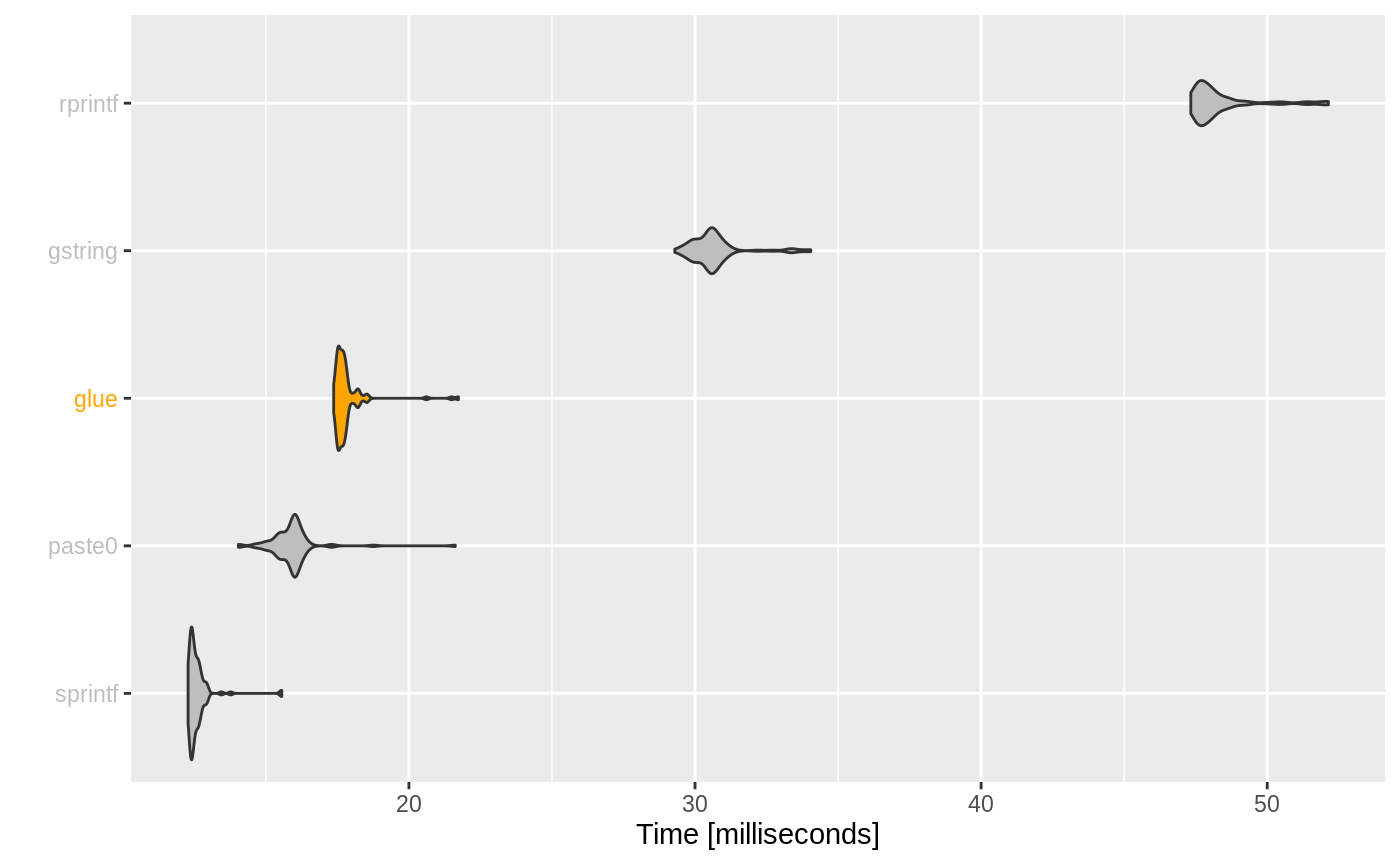
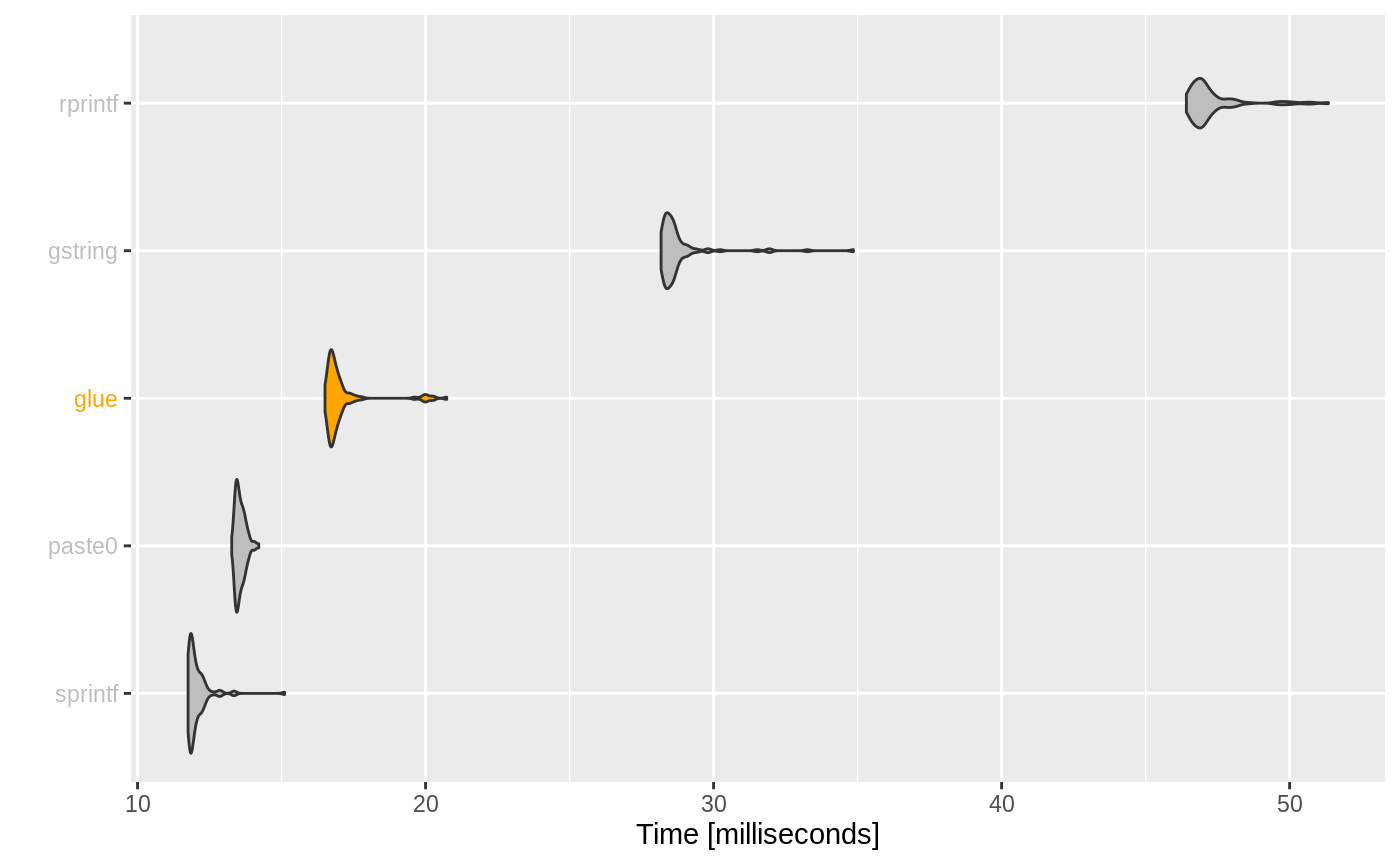
Built site for glue: 1.3.1.9000@8094d3b

diff --git a/dev/articles/speed.html b/dev/articles/speed.html
@@ -153,13 +153,13 @@
 <a class="sourceLine" id="cb1-12" data-line-number="12"></a>
 <a class="sourceLine" id="cb1-13" data-line-number="13"><span class="kw"><a href="https://rdrr.io/r/base/print.html">print</a></span>(<span class="dt">unit =</span> <span class="st">"eps"</span>, <span class="dt">order =</span> <span class="st">"median"</span>, <span class="dt">signif =</span> <span class="dv">4</span>, simple)</a>
 <a class="sourceLine" id="cb1-14" data-line-number="14"><span class="co">#&gt; Unit: evaluations per second</span></a>
-<a class="sourceLine" id="cb1-15" data-line-number="15"><span class="co">#&gt;        expr      min     lq   mean median     uq     max neval</span></a>
-<a class="sourceLine" id="cb1-16" data-line-number="16"><span class="co">#&gt;     rprintf   305.60   2061   2145   2150   2289    2563   100</span></a>
-<a class="sourceLine" id="cb1-17" data-line-number="17"><span class="co">#&gt;     gstring    22.71   2523   2601   2631   2748    3209   100</span></a>
-<a class="sourceLine" id="cb1-18" data-line-number="18"><span class="co">#&gt;  str_interp   226.00   3388   3634   3585   3942    4902   100</span></a>
-<a class="sourceLine" id="cb1-19" data-line-number="19"><span class="co">#&gt;        glue  1135.00   6369   7405   7279   8245   11200   100</span></a>
-<a class="sourceLine" id="cb1-20" data-line-number="20"><span class="co">#&gt;      paste0 27570.00 336300 526000 534200 653200  986200   100</span></a>
-<a class="sourceLine" id="cb1-21" data-line-number="21"><span class="co">#&gt;     sprintf 59960.00 405000 714000 628900 788000 1715000   100</span></a>
+<a class="sourceLine" id="cb1-15" data-line-number="15"><span class="co">#&gt;        expr       min     lq   mean median     uq     max neval</span></a>
+<a class="sourceLine" id="cb1-16" data-line-number="16"><span class="co">#&gt;     rprintf    333.50   2116   2182   2190   2299    2582   100</span></a>
+<a class="sourceLine" id="cb1-17" data-line-number="17"><span class="co">#&gt;     gstring     23.88   2504   2630   2652   2800    3296   100</span></a>
+<a class="sourceLine" id="cb1-18" data-line-number="18"><span class="co">#&gt;  str_interp    221.00   3422   3623   3629   3919    4998   100</span></a>
+<a class="sourceLine" id="cb1-19" data-line-number="19"><span class="co">#&gt;        glue   1144.00   6751   7554   7241   8143   12070   100</span></a>
+<a class="sourceLine" id="cb1-20" data-line-number="20"><span class="co">#&gt;      paste0 168800.00 298700 517300 527900 637800 1036000   100</span></a>
+<a class="sourceLine" id="cb1-21" data-line-number="21"><span class="co">#&gt;     sprintf  72140.00 400200 662800 625400 765100 1658000   100</span></a>
 <a class="sourceLine" id="cb1-22" data-line-number="22"></a>
 <a class="sourceLine" id="cb1-23" data-line-number="23"><span class="kw">plot_comparison</span>(simple)</a></code></pre></div>
 <p><img src="speed_files/figure-html/unnamed-chunk-1-1.png" width="700"></p>
@@ -187,11 +187,11 @@
 <a class="sourceLine" id="cb2-12" data-line-number="12"><span class="kw"><a href="https://rdrr.io/r/base/print.html">print</a></span>(<span class="dt">unit =</span> <span class="st">"ms"</span>, <span class="dt">order =</span> <span class="st">"median"</span>, <span class="dt">signif =</span> <span class="dv">4</span>, vectorized)</a>
 <a class="sourceLine" id="cb2-13" data-line-number="13"><span class="co">#&gt; Unit: milliseconds</span></a>
 <a class="sourceLine" id="cb2-14" data-line-number="14"><span class="co">#&gt;     expr   min    lq  mean median    uq   max neval</span></a>
-<a class="sourceLine" id="cb2-15" data-line-number="15"><span class="co">#&gt;  sprintf 12.28 12.39 12.60  12.47 12.65 15.56   100</span></a>
-<a class="sourceLine" id="cb2-16" data-line-number="16"><span class="co">#&gt;   paste0 14.04 15.54 15.90  15.96 16.08 21.62   100</span></a>
-<a class="sourceLine" id="cb2-17" data-line-number="17"><span class="co">#&gt;     glue 17.37 17.53 17.82  17.68 17.80 21.73   100</span></a>
-<a class="sourceLine" id="cb2-18" data-line-number="18"><span class="co">#&gt;  gstring 29.29 30.10 30.66  30.55 30.82 34.05   100</span></a>
-<a class="sourceLine" id="cb2-19" data-line-number="19"><span class="co">#&gt;  rprintf 47.33 47.62 48.31  47.88 48.45 52.14   100</span></a>
+<a class="sourceLine" id="cb2-15" data-line-number="15"><span class="co">#&gt;  sprintf 11.75 11.82 12.06  11.91 12.16 15.11   100</span></a>
+<a class="sourceLine" id="cb2-16" data-line-number="16"><span class="co">#&gt;   paste0 13.27 13.43 13.57  13.53 13.67 14.21   100</span></a>
+<a class="sourceLine" id="cb2-17" data-line-number="17"><span class="co">#&gt;     glue 16.51 16.68 17.11  16.80 17.02 20.74   100</span></a>
+<a class="sourceLine" id="cb2-18" data-line-number="18"><span class="co">#&gt;  gstring 28.18 28.33 28.78  28.51 28.71 34.85   100</span></a>
+<a class="sourceLine" id="cb2-19" data-line-number="19"><span class="co">#&gt;  rprintf 46.41 46.72 47.29  46.97 47.36 51.34   100</span></a>
 <a class="sourceLine" id="cb2-20" data-line-number="20"></a>
 <a class="sourceLine" id="cb2-21" data-line-number="21"><span class="kw">plot_comparison</span>(vectorized, <span class="dt">log =</span> <span class="ot">FALSE</span>)</a></code></pre></div>
 <p><img src="speed_files/figure-html/unnamed-chunk-2-1.png" width="700"></p>

diff --git a/dev/articles/releases/glue-1.2.0.html b/dev/articles/releases/glue-1.2.0.html
@@ -224,7 +224,7 @@
 <a href="#glue_sql" class="anchor"></a>glue_sql()</h2>
 <p>Also new to glue 1.2.0 is <code><a href="../../reference/glue_sql.html">glue_sql()</a></code> and <code><a href="../../reference/glue_sql.html">glue_data_sql()</a></code>, which are helper functions defined with glue transformers to make it easy and safe to construct SQL statements.</p>
 <p>Using <code><a href="../../reference/glue_sql.html">glue_sql()</a></code> values are automatically quoted appropriately and variables can be quoted with backticks.</p>
-<div class="sourceCode" id="cb8"><pre class="sourceCode r"><code class="sourceCode r"><a class="sourceLine" id="cb8-1" data-line-number="1">con &lt;-<span class="st"> </span>DBI<span class="op">::</span><span class="kw"><a href="https://dbi.r-dbi.org/reference/dbConnect.html">dbConnect</a></span>(RSQLite<span class="op">::</span><span class="kw"><a href="https://rdrr.io/pkg/RSQLite/man/SQLite.html">SQLite</a></span>(), <span class="st">":memory:"</span>)</a>
+<div class="sourceCode" id="cb8"><pre class="sourceCode r"><code class="sourceCode r"><a class="sourceLine" id="cb8-1" data-line-number="1">con &lt;-<span class="st"> </span>DBI<span class="op">::</span><span class="kw"><a href="https://dbi.r-dbi.org/reference/dbConnect.html">dbConnect</a></span>(RSQLite<span class="op">::</span><span class="kw"><a href="https://rsqlite.r-dbi.org/reference/SQLite.html">SQLite</a></span>(), <span class="st">":memory:"</span>)</a>
 <a class="sourceLine" id="cb8-2" data-line-number="2"><span class="kw"><a href="https://rdrr.io/r/base/colnames.html">colnames</a></span>(iris) &lt;-<span class="st"> </span><span class="kw"><a href="https://rdrr.io/r/base/grep.html">gsub</a></span>(<span class="st">"[.]"</span>, <span class="st">"_"</span>, <span class="kw"><a href="https://rdrr.io/r/base/chartr.html">tolower</a></span>(<span class="kw"><a href="https://rdrr.io/r/base/colnames.html">colnames</a></span>(iris)))</a>
 <a class="sourceLine" id="cb8-3" data-line-number="3">DBI<span class="op">::</span><span class="kw"><a href="https://dbi.r-dbi.org/reference/dbWriteTable.html">dbWriteTable</a></span>(con, <span class="st">"iris"</span>, iris)</a>
 <a class="sourceLine" id="cb8-4" data-line-number="4">var &lt;-<span class="st"> "sepal_width"</span></a>

diff --git a/dev/index.html b/dev/index.html
@@ -269,7 +269,7 @@
 <p>Use backticks to quote identifiers, normal strings and numbers are quoted appropriately for your backend.</p>
 <div class="sourceCode" id="cb13"><pre class="sourceCode r"><code class="sourceCode r"><a class="sourceLine" id="cb13-1" data-line-number="1"><span class="kw"><a href="https://rdrr.io/r/base/library.html">library</a></span>(glue)</a>
 <a class="sourceLine" id="cb13-2" data-line-number="2"></a>
-<a class="sourceLine" id="cb13-3" data-line-number="3">con &lt;-<span class="st"> </span>DBI<span class="op">::</span><span class="kw"><a href="https://dbi.r-dbi.org/reference/dbConnect.html">dbConnect</a></span>(RSQLite<span class="op">::</span><span class="kw"><a href="https://rdrr.io/pkg/RSQLite/man/SQLite.html">SQLite</a></span>(), <span class="st">":memory:"</span>)</a>
+<a class="sourceLine" id="cb13-3" data-line-number="3">con &lt;-<span class="st"> </span>DBI<span class="op">::</span><span class="kw"><a href="https://dbi.r-dbi.org/reference/dbConnect.html">dbConnect</a></span>(RSQLite<span class="op">::</span><span class="kw"><a href="https://rsqlite.r-dbi.org/reference/SQLite.html">SQLite</a></span>(), <span class="st">":memory:"</span>)</a>
 <a class="sourceLine" id="cb13-4" data-line-number="4"><span class="kw"><a href="https://rdrr.io/r/base/colnames.html">colnames</a></span>(iris) &lt;-<span class="st"> </span><span class="kw"><a href="https://rdrr.io/r/base/grep.html">gsub</a></span>(<span class="st">"[.]"</span>, <span class="st">"_"</span>, <span class="kw"><a href="https://rdrr.io/r/base/chartr.html">tolower</a></span>(<span class="kw"><a href="https://rdrr.io/r/base/colnames.html">colnames</a></span>(iris)))</a>
 <a class="sourceLine" id="cb13-5" data-line-number="5">DBI<span class="op">::</span><span class="kw"><a href="https://dbi.r-dbi.org/reference/dbWriteTable.html">dbWriteTable</a></span>(con, <span class="st">"iris"</span>, iris)</a>
 <a class="sourceLine" id="cb13-6" data-line-number="6">var &lt;-<span class="st"> "sepal_width"</span></a>

diff --git a/dev/reference/glue_sql.html b/dev/reference/glue_sql.html
@@ -218,7 +218,7 @@ collapsed with commas. This is useful for the <a href='https://www.w3schools.com
 for instance.</p>
 
     <h2 class="hasAnchor" id="examples"><a class="anchor" href="#examples"></a>Examples</h2>
-    <pre class="examples"><div class='input'><span class='no'>con</span> <span class='kw'>&lt;-</span> <span class='kw pkg'>DBI</span><span class='kw ns'>::</span><span class='fu'><a href='https://dbi.r-dbi.org/reference/dbConnect.html'>dbConnect</a></span>(<span class='kw pkg'>RSQLite</span><span class='kw ns'>::</span><span class='fu'><a href='https://rdrr.io/pkg/RSQLite/man/SQLite.html'>SQLite</a></span>(), <span class='st'>":memory:"</span>)
+    <pre class="examples"><div class='input'><span class='no'>con</span> <span class='kw'>&lt;-</span> <span class='kw pkg'>DBI</span><span class='kw ns'>::</span><span class='fu'><a href='https://dbi.r-dbi.org/reference/dbConnect.html'>dbConnect</a></span>(<span class='kw pkg'>RSQLite</span><span class='kw ns'>::</span><span class='fu'><a href='https://rsqlite.r-dbi.org/reference/SQLite.html'>SQLite</a></span>(), <span class='st'>":memory:"</span>)
 <span class='no'>iris2</span> <span class='kw'>&lt;-</span> <span class='no'>iris</span>
 <span class='fu'><a href='https://rdrr.io/r/base/colnames.html'>colnames</a></span>(<span class='no'>iris2</span>) <span class='kw'>&lt;-</span> <span class='fu'><a href='https://rdrr.io/r/base/grep.html'>gsub</a></span>(<span class='st'>"[.]"</span>, <span class='st'>"_"</span>, <span class='fu'><a href='https://rdrr.io/r/base/chartr.html'>tolower</a></span>(<span class='fu'><a href='https://rdrr.io/r/base/colnames.html'>colnames</a></span>(<span class='no'>iris</span>)))
 <span class='kw pkg'>DBI</span><span class='kw ns'>::</span><span class='fu'><a href='https://dbi.r-dbi.org/reference/dbWriteTable.html'>dbWriteTable</a></span>(<span class='no'>con</span>, <span class='st'>"iris"</span>, <span class='no'>iris2</span>)
